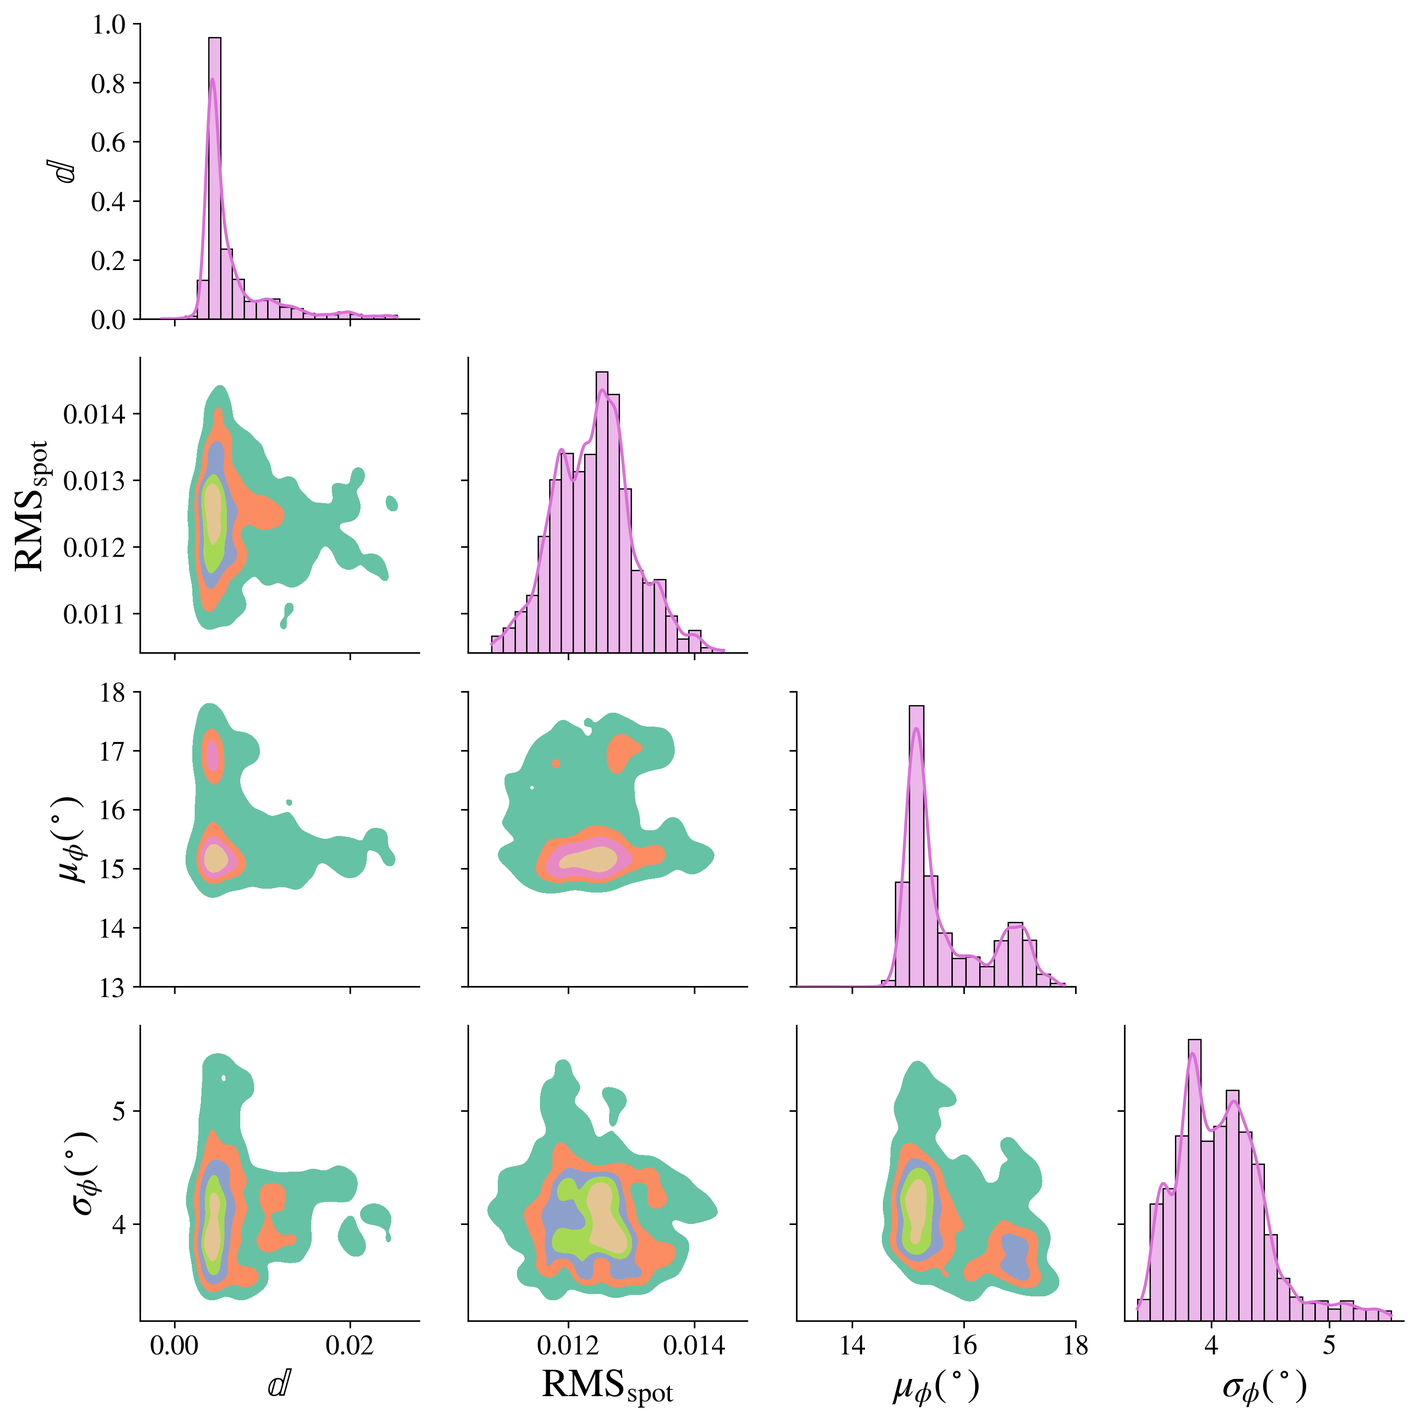
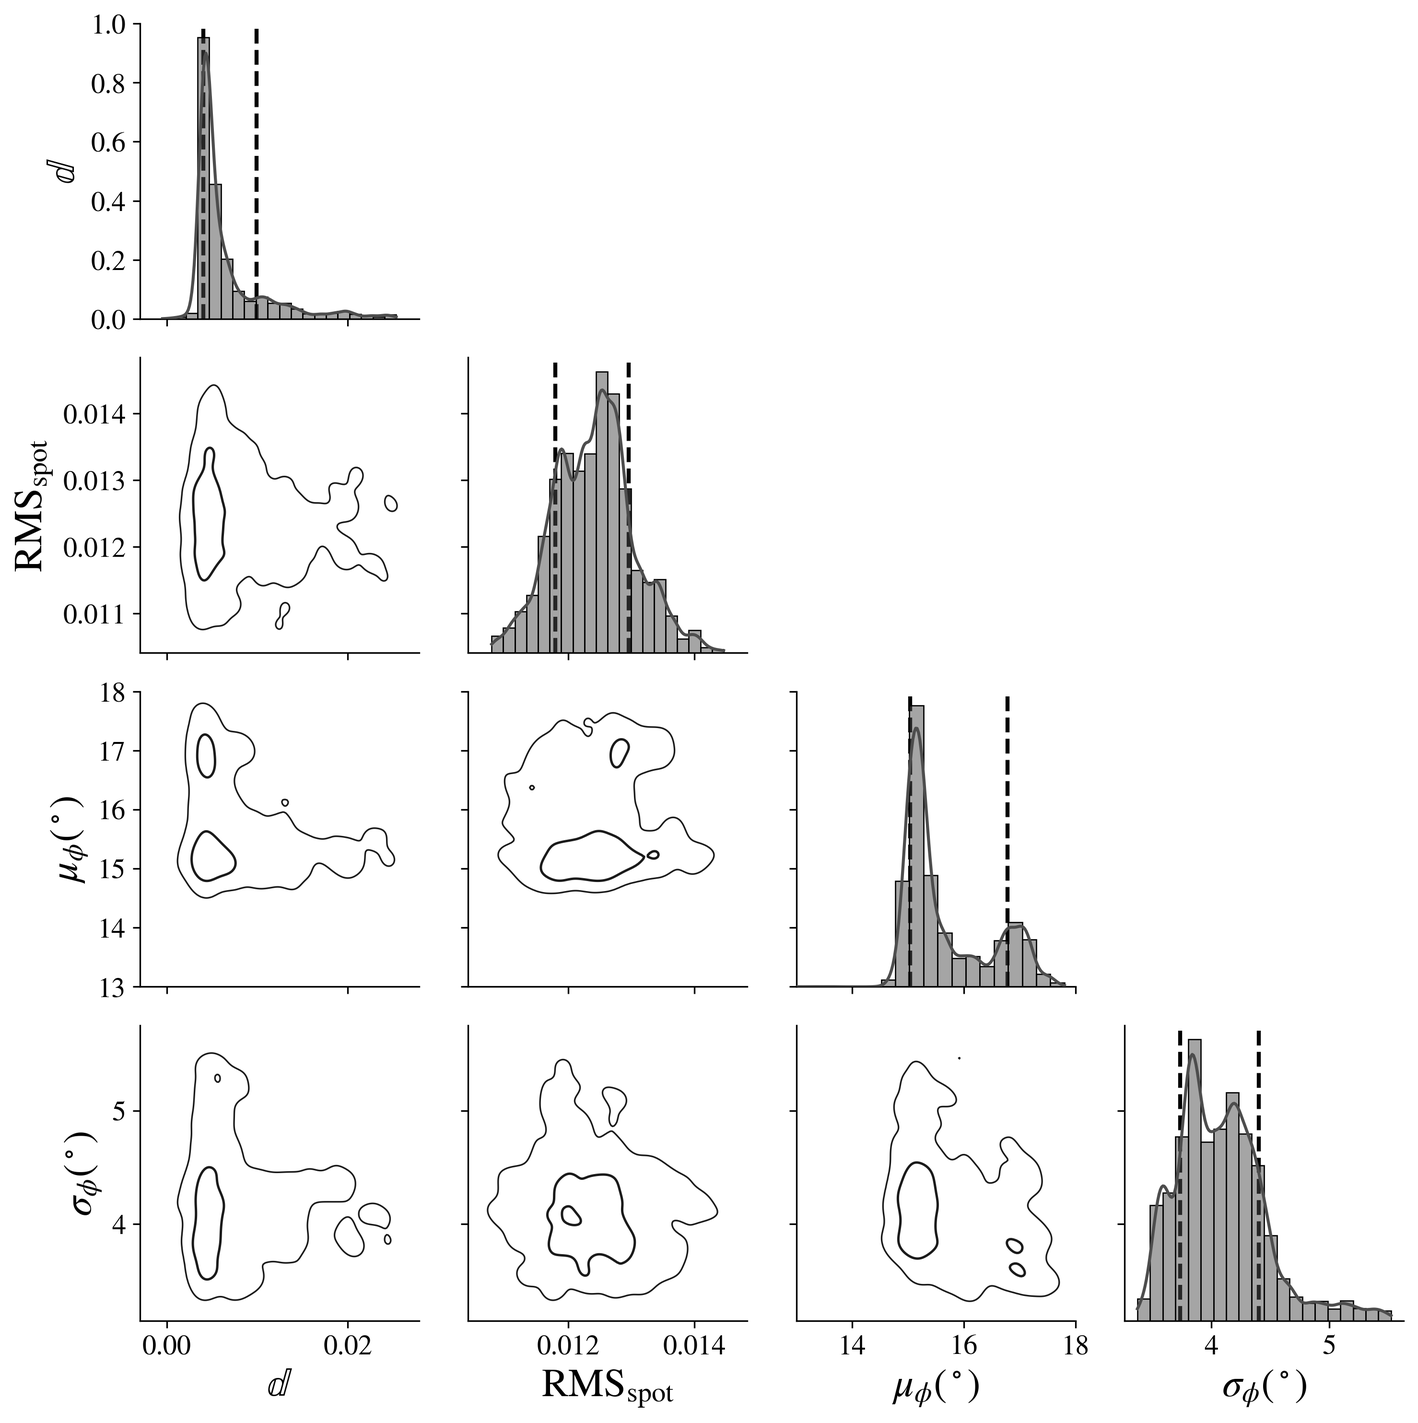
second round

diff --git a/src/tex/ms.tex b/src/tex/ms.tex
@@ -17,7 +17,11 @@
 
 \DeclareMathOperator{\diag}{diag}
 
-\usepackage{hyperref}  % For creating hyperlinks
+\usepackage{hyperref}
+
+% \newcommand{\paperone}{\hyperref[paper1]{Paper~I}}
+\newcommand{\paperone}{\hyperlink{cite.paper1}{Paper~I}}
+
 \usepackage{fontawesome5}  % For the GitHub icon
 \newcommand{\sabinasays}[1]{{\color{purple}#1}}
 
@@ -53,10 +57,10 @@
 Starspots trace stellar magnetic activity and affect both stellar evolution and exoplanet
 characterization. While occultation-based spot studies have been applied to individual systems,
 comparative analyses remain limited. We apply the \texttt{StarryStarryProcess} Bayesian surface
-mapping framework to archival \textit{Kepler} light curves of two planet hosts—Kepler-63 and Kepler-17—extending 
+mapping framework to archival \textit{Kepler} \citep{Borucki2010} light curves of two planet hosts—Kepler-63 and Kepler-17—extending 
 the validation established on TOI-3884 (Paper~I).
 Across both systems we infer characteristic spot radii of $<$10$^\circ$.
-The latitudinal distributions of both G-dwarfs exhibit \sabinasays{active latitudes} (Kepler-63 at $\pm$30$^\circ$, Kepler-17 at
+The latitudinal distributions of both G-dwarfs exhibit active latitudes (Kepler-63 at $\pm$30$^\circ$, Kepler-17 at
 $\pm$15$^\circ$). Our analysis yields stellar obliquity measurements in excellent agreement with previous
 studies for both systems. This validates our methodology and demonstrates that transit-based
 surface mapping can simultaneously recover planetary parameters, stellar orientations, and
@@ -69,11 +73,11 @@ misaligned (Kepler-63) geometries.
 \section{Introduction}
 \label{sec:intro}
 
-\sabinasays{Starspots are key tracers of stellar magnetic activity, shaping a variety of observable behaviors 
+Starspots are key tracers of stellar magnetic activity, shaping a variety of observable behaviors 
 including rotational modulation, wavelength-dependent flux variations, 
 and signatures during planetary transits. These surface features influence both stellar physics and exoplanet 
 characterization, where they can bias 
-radius measurements or imitate atmospheric signatures -- what we call a "stellar contamination" in transmission spectroscopy. 
+radius measurements or imitate atmospheric signatures -- what we call a ``stellar contamination" in transmission spectroscopy. 
 The need to accurately account for these 
 effects has grown with the emergence of high-precision time-series data, as demonstrated by works
 of active exoplanet hosts across broadband photometry and infrared 
@@ -89,7 +93,7 @@ The basic idea of inferring surface features from transit bumps dates back to th
 \cite{Silva2003} and has since inspired a broad set of methods for mapping spot properties from occultation 
 signals \citep[e.g.,][]{Huber2010, Oshagh2013, Tregloan-Reed2013, Beky2014, Montalto2014, Maxted2016, Herrero2016, Juvan2018, Scandariato2017,paper1}.
 
-In \cite{paper1} (hereafter Paper~I), we introduced the \texttt{StarryStarryProcess} framework as a flexible, 
+In \cite{paper1} (hereafter \paperone), we introduced the \texttt{StarryStarryProcess} framework as a flexible, 
 probabilistic model for interpreting these combined signatures of stellar activity. By coupling the spherical  
 harmonic machinery of \texttt{starry} \citep{Luger2019} with the spot-population formalism 
 of \texttt{StarryProcess} \citep{Luger2021b}, the method treats rotational variability and 
@@ -115,7 +119,7 @@ In this work, we apply \texttt{StarryStarryProcess} to both Kepler-63 and Kepler
 extract starspot population properties in a consistent manner, evaluate how our inferences compare with 
 previous transit-based analyses, and derive updated constraints on the stellar obliquities. 
 By analyzing these two systems using a common probabilistic framework, we extend the validation of 
-Paper I to a broader astrophysical setting and assess how well the method captures real diversity in 
+\paperone to a broader astrophysical setting and assess how well the method captures real diversity in 
 spotted surfaces. More generally, this work illustrates how long-baseline transit photometry can 
 be used not only to characterize individual stars, but also to build a comparative picture of 
 magnetic environments across exoplanet hosts.
@@ -123,7 +127,7 @@ magnetic environments across exoplanet hosts.
 The structure of the paper is as follows. Section~\ref{sec:model} describes the 
 modeling framework and inference procedure. Section~\ref{sec:kepler63} presents 
 the analysis of Kepler-63, followed by the results for Kepler-17 in Section~\ref{sec:kepler17}. 
-We discuss limitations and implications in Section~\ref{sec:discussion}.}
+We discuss limitations and implications in Section~\ref{sec:discussion}.
 
 \section{Methodology}
 \label{sec:model}
@@ -143,7 +147,7 @@ The analysis was performed on an ensemble of these chunks, with the reported sur
 the averaged configuration over each chunk period. This methodology enables us to track the evolution of 
 magnetic features while avoiding the assumption of static surface patterns over extended observing periods.
 
-\sabinasays{In our previous work \citep{paper1}, we introduced and tested two ways of handling the temporal evolution of spots: 
+In \paperone, we introduced and tested two ways of handling the temporal evolution of spots: 
 one in which consecutive surface maps were linearly interpolated to enforce smooth temporal evolution, 
 and another in which each chunk was treated independently. Both approaches produced consistent qualitative behavior, 
 but the interpolation-based method introduced stronger correlations between adjacent chunks, 
@@ -152,15 +156,15 @@ temporal evolution would be to impose a Gaussian Process (GP) kernel in time on 
 themselves \citep{Luger2021b}. However, coupling a GP temporal prior with a high–degree spherical-harmonic expansion leads to a 
 large parameter space and an inference problem that is not yet computationally tractable for our datasets. 
 For these reasons, in the present work we adopt the simpler non-interpolated, independent-chunk approach, 
-while planning to explore GP-regularized temporal evolution in future work.}
+while planning to explore GP-regularized temporal evolution in future work.
 
-The model accounts for the obliquity-inclination degeneracy discussed in \citet{paper1}, where the stellar obliquity ($\psi$) 
+The model accounts for the obliquity-inclination degeneracy discussed in \paperone, where the stellar obliquity ($\psi$) 
 and stellar inclination ($i_{\star}$) can be degenerate between northern and southern hemispheres. By incorporating 
 both rotational modulation and transit constraints simultaneously, our approach breaks these degeneracies 
 to provide robust estimates of the three-dimensional stellar orientation and surface feature distributions.
 
 Rather than reporting the traditional model parameters of contrast ($\mathbb{c}$)
-and number of spots ($\mathbb{n}$) as in \citet{paper1}, we focus on physically measurable quantities 
+and number of spots ($\mathbb{n}$) as in \paperone, we focus on physically measurable quantities 
 that directly relate to observable stellar variability. The $\mathbb{n}$ parameter is not truly a spot count but 
 rather a scaling parameter on the mean and variance of the spot flux decrement, and therefore does not naturally 
 correspond to the number of spots visible in surface maps. Similarly, the contrast parameter $\mathbb{c}$ does not directly 
@@ -198,7 +202,8 @@ to the high level of magnetic activity on this young star.
     \begin{centering}
         \includegraphics[width=\linewidth]{figures/kepler63keplerlc.png}
         \caption{Light curve of Kepler-63 showing relative flux measurements over time for quarters 3, 4, 5, and 6 of 
-        the Kepler mission. The data spans approximately 350 days (from BJD 2457250 to 2457600) and shows periodic 
+        the Kepler mission. The red points show the transits.
+        The data spans approximately 350 days (from BJD 2457250 to 2457600) and shows periodic 
         transit events appearing as characteristic dips in the stellar brightness against the background of rotational modulation from starspots.}
         \label{fig:kepler63-pdscap-lc}
     \end{centering}
@@ -220,8 +225,9 @@ across all epochs confirms the robustness of our planetary parameter determinati
         \includegraphics[width=\linewidth]{figures/result_kepler63lc1.png}
         \caption{Transit photometry and model fits for Kepler-63. Top: Complete light curve showing eight 
         detected transits over 80 days of observations. Black points show binned detrended photometry; orange lines represent 
-        model averages of 200 samples. Bottom panels: Individual transit events with observed 
-        photometry (grey points with error bars) and the average model across 200 samples (purple lines) with $1\sigma$ uncertainty. 
+        model averages of 200 samples. The numbers above the boxes indicate the transit number to match the bottom panel. 
+        Bottom panels: Individual transit events with observed 
+        photometry (grey points with error bars) and the average model across 200 samples (orange lines) with $1\sigma$ uncertainty. 
         Model parameters were determined through simultaneous fitting of all transits and the rotational modulation.}
         \label{fig:kepler63-results}
     \end{centering}
@@ -255,10 +261,12 @@ collectively reduce the stellar flux by approximately 3-4\% on average.
         \caption{Corner plot showing posterior distributions and parameter correlations from our analysis of stellar 
         spot properties for Kepler-63. Diagonal panels display marginal posterior distributions for the 
         flux decrement due to spots ($\mathbb{d}$), $\rm{RMS}_{\rm{spot}}$, and mean and standard deviation of 
-        spot latitudes ($\mu_\phi$ and $\sigma_\phi$). Off-diagonal panels show 2D posterior distributions with contour 
-        levels indicating parameter covariances. The tight correlations between parameters demonstrate 
-        well-constrained solutions from the photometric modeling. Colors represent probability density with warmer 
-        colors indicating higher likelihood regions.}
+        spot latitudes ($\mu_\phi$ and $\sigma_\phi$). Diagonal panels show marginalized posterior distributions; 
+        dashed vertical lines mark the 16th and 84th percentiles ($1\sigma$ credible intervals). 
+        Off-diagonal panels show two-dimensional kernel density estimates with three iso-density contours 
+        illustrating correlations between parameters. 
+        The tight correlations between parameters demonstrate 
+        well-constrained solutions from the photometric modeling.}
         \label{fig:kepler63-corener-gps}
     \end{centering}
 \end{figure*}
@@ -277,13 +285,10 @@ through transit photometry.
 \begin{figure*}[hbt!]
     % \script{experiment-1-true-map.py}
     \begin{centering}
-        \includegraphics[width=\linewidth]{figures/active-lats_kepler63.png}
-        \caption{Latitudinal distribution of stellar activity derived from spot modeling for Kepler-63. The probability density 
-        function shows the likelihood of spot occurrence as a function of stellar latitude, revealing two 
-        distinct active latitude bands centered at approximately $\pm 30^\circ$. The black line represents 
-        the mean posterior distribution while pink curves show individual MCMC samples from our analysis. 
-        The bimodal structure indicates preferential spot formation in symmetric mid-latitude belts, 
-        with minimal activity at the poles and equator.}
+        \includegraphics[width=\linewidth]{figures/active-lats_kepler63_abs.png}
+        \caption{Latitudinal distribution of stellar activity for Kepler-63 derived from spot modeling. 
+        The plot shows Posterior distributions of the absolute active latitude, shown from $0^\circ$ to $90^\circ$. 
+        Thin colored curves indicate individual posterior samples, while the thick black curve shows the mean distribution.}
         \label{fig:kepler63-activelats}
     \end{centering}
 \end{figure*}
@@ -352,7 +357,7 @@ and the derived parameters, while demonstrating that our approach can successful
 %
 
 To illustrate the temporal evolution of stellar surface features and their interaction with the transiting planet, 
-Figure \ref{fig:kepler63-chunks} presents snapshots of the inferred stellar surface maps for nine \sabinasays{randomly-selected} chunks 
+Figure \ref{fig:kepler63-chunks} presents snapshots of the inferred stellar surface maps for nine randomly-selected chunks 
 of the light curve. Each panel shows the mean stellar surface brightness distribution averaged across 200 MCMC samples for 
 that specific time segment, with the black line indicating the planetary transit trajectory. The color scale represents 
 the relative flux, with darker regions corresponding to cooler starspots and brighter regions representing the unspotted photosphere.
@@ -375,7 +380,7 @@ properties of the stellar activity remain stable over the timespan of our observ
     % \script{experiment-chunks.py}
     \begin{centering}
         \includegraphics[width=\linewidth]{figures/maps-obl_kepler63.png}
-        \caption{Temporal evolution of stellar surface maps for Kepler-63 across nine \sabinasays{randomly-selected} chunks of the 
+        \caption{Temporal evolution of stellar surface maps for Kepler-63 across nine randomly-selected chunks of the 
         light curve. Each panel shows the mean stellar surface brightness distribution averaged over 
         200 MCMC samples for that specific time segment, with the black line indicating the planetary transit trajectory. 
         The color scale represents relative flux, with darker regions corresponding to cooler starspots. 
@@ -409,7 +414,7 @@ providing excellent temporal sampling of the stellar surface as the planet repea
         \includegraphics[width=\linewidth]{figures/kepler17keplerlc.png}
         \caption{Complete Kepler light curve for Kepler-17 covering quarters 4, 5, 6, and 7. 
         The data spans approximately 300 days and shows frequent, deep transit events of the hot Jupiter Kepler-17b 
-        against moderate stellar variability. The short 1.486-day orbital period provides excellent 
+        against moderate stellar variability. The red points show the transits. The short 1.486-day orbital period provides excellent 
         temporal sampling of the stellar surface, while the intermediate activity level offers a valuable 
         comparison between the quiet Kepler-45 and highly active Kepler-63 systems.}
         \label{fig:kepler17-pdscap-lc}
@@ -432,8 +437,10 @@ in this system provides exceptional constraints on the rotational evolution of s
     \begin{centering}
         \includegraphics[width=\linewidth]{figures/result_kepler17lc1.png}
         \caption{Transit photometry and model fits for Kepler-17. Top: Light curve segment showing frequent transit events 
-        with black points representing detrended photometry and orange line showing 200 samples from the model. Bottom panels: Individual transit events with observed photometry (grey points with error bars) 
-        and average model fits (purple lines) with $1\sigma$ uncertainty bands. The excellent fit quality despite the short 
+        with black points representing detrended photometry and orange line showing 200 samples from the model. 
+        The numbers above the boxes indicate the transit number to match the bottom panel.
+        Bottom panels: Individual transit events with observed photometry (grey points with error bars) 
+        and average model fits (orange lines) with $1\sigma$ uncertainty bands. The excellent fit quality despite the short 
         orbital period and moderate stellar activity demonstrates the robustness of our joint modeling approach.}
         \label{fig:kepler17-results}
     \end{centering}
@@ -465,7 +472,10 @@ stellar disk.
         \includegraphics[width=\linewidth]{figures/corner-gps_kepler17lc.png}
         \caption{Posterior distributions and parameter correlations for stellar spot properties of Kepler-17. 
         Diagonal panels show marginal distributions for the flux decrement ($\mathbb{d}$), $\rm{RMS}_{\rm{spot}}$, and latitudinal distribution parameters ($\mu_\phi$ and $\sigma_\phi$). 
-        Off-diagonal panels display 2D posterior distributions with contours. The analysis reveals high-contrast spots 
+        Diagonal panels show marginalized posterior distributions; 
+        dashed vertical lines mark the 16th and 84th percentiles ($1\sigma$ credible intervals). 
+        Off-diagonal panels show two-dimensional kernel density estimates with three iso-density contours 
+        illustrating correlations between parameters. The analysis reveals high-contrast spots 
         with well-constrained latitudinal preferences, reflecting the intermediate activity level and unique magnetic 
         field configuration of this system.}
         \label{fig:kepler17-corener-gps}
@@ -475,10 +485,10 @@ stellar disk.
 
 The latitudinal distribution of stellar activity in Kepler-17 exhibits yet another distinct pattern, 
 further illustrating the diversity of magnetic field topologies across different stellar types and activity levels. 
-Figure \ref{fig:kepler17-activelats} shows a bimodal structure similar to Kepler-63, but with the activity bands 
+Figure \ref{fig:kepler17-activelats} shows a non-equatorial structure similar to Kepler-63, but with the activity bands 
 located at different latitudes. The probability density reveals two symmetric peaks centered at approximately $\pm 15^\circ$, 
 closer to the equator than the $\pm 30^\circ$ bands observed in Kepler-63. The black curve represents the mean posterior distribution, while the pink 
-curves show individual MCMC samples, confirming the robustness of this mid-latitude bimodal pattern. The narrow latitudinal 
+curves show individual MCMC samples, confirming the robustness of this non-equatorial pattern. The narrow latitudinal 
 spread ($\sigma_\phi = 4.09^{+1.9}_{-1.7}$ degrees) indicates well-defined, concentrated activity zones, suggesting a 
 more organized magnetic field structure than the broader distributions seen in the other systems.
 
@@ -486,12 +496,10 @@ more organized magnetic field structure than the broader distributions seen in t
 \begin{figure*}[hbt!]
     % \script{experiment-kepler17-lats.py}
     \begin{centering}
-        \includegraphics[width=\linewidth]{figures/active-lats_kepler17.png}
+        \includegraphics[width=\linewidth]{figures/active-lats_kepler17_abs.png}
         \caption{Latitudinal distribution of stellar activity for Kepler-17 derived from spot modeling. 
-        The probability density function shows a bimodal structure with two symmetric peaks centered at approximately 
-        $\pm 15^\circ$ latitude. The black line represents the mean posterior distribution while pink curves show individual 
-        MCMC samples. This mid-latitude bimodal pattern differs from the higher-latitude bands found in Kepler-63, demonstrating the diversity of magnetic field topologies 
-        across stellar activity levels.}
+        The plot shows Posterior distributions of the absolute active latitude, shown from $0^\circ$ to $90^\circ$. 
+        Thin colored curves indicate individual posterior samples, while the thick black curve shows the mean distribution.}
         \label{fig:kepler17-activelats}
     \end{centering}
 \end{figure*}
@@ -512,11 +520,11 @@ stellar surface.
     % \script{experiment-kepler17-chunks.py}
     \begin{centering}
         \includegraphics[width=\linewidth]{figures/maps-obl_kepler17.png}
-        \caption{Temporal evolution of stellar surface maps for Kepler-17 across nine \sabinasays{representative, randomly-selected} 
+        \caption{Temporal evolution of stellar surface maps for Kepler-17 across nine representative, randomly-selected
         light curve 
         chunks. Each panel shows the mean stellar surface brightness distribution averaged over 200 MCMC samples, 
         with the black line indicating the planetary transit trajectory. The horizontal transit path confirms the 
-        well-aligned geometry of this system. The surface maps show the bimodal latitudinal activity pattern and 
+        well-aligned geometry of this system. The surface maps show the latitudinal activity pattern and 
         high-contrast spots characteristic of this intermediate-activity system, with clear evolution of magnetic 
         features over time.}
         \label{fig:kepler17-chunks}
@@ -588,7 +596,7 @@ manifestations of stellar magnetic activity across stars of different spectral t
 system architectures. While the \texttt{StarryStarryProcess} framework yields robust constraints
 on latitudinal distributions in each system.
 
-\sabinasays{\subsection{Symmetry in the Latitude Distribution}
+\subsection{Symmetry in the Latitude Distribution}
 \label{subsec:bimodality}
 
 Our inference procedure adopts a symmetric parameterization for the spot-latitude
@@ -630,7 +638,7 @@ model-insensitive constraints. In particular:
     \item Spots are modeled as spherical, and therefore their longitudinal and latitudinal
     extents are tied. Thus, the data-constrained longitudinal widths place indirect
     constraints on the effective latitudinal widths as well.
-\end{enumerate}}
+\end{enumerate}
 
 \subsection{Activity Levels and Spot Properties}
 The two systems span a continuum of magnetic activity. Kepler-63, the youngest and most active
@@ -722,7 +730,7 @@ properties of stellar magnetic activity.
 
 We have applied the \texttt{StarryStarryProcess} framework to archival \textit{Kepler} light curves
 of two transiting exoplanet host stars: Kepler-63 and Kepler-17. This
-analysis expands upon the validation of the method on TOI-3884 presented in Paper~I, and
+analysis expands upon the validation of the method on TOI-3884 presented in \paperone, and
 demonstrates its ability to jointly constrain planetary parameters and stellar surface magnetic
 properties across diverse stellar environments.
 
